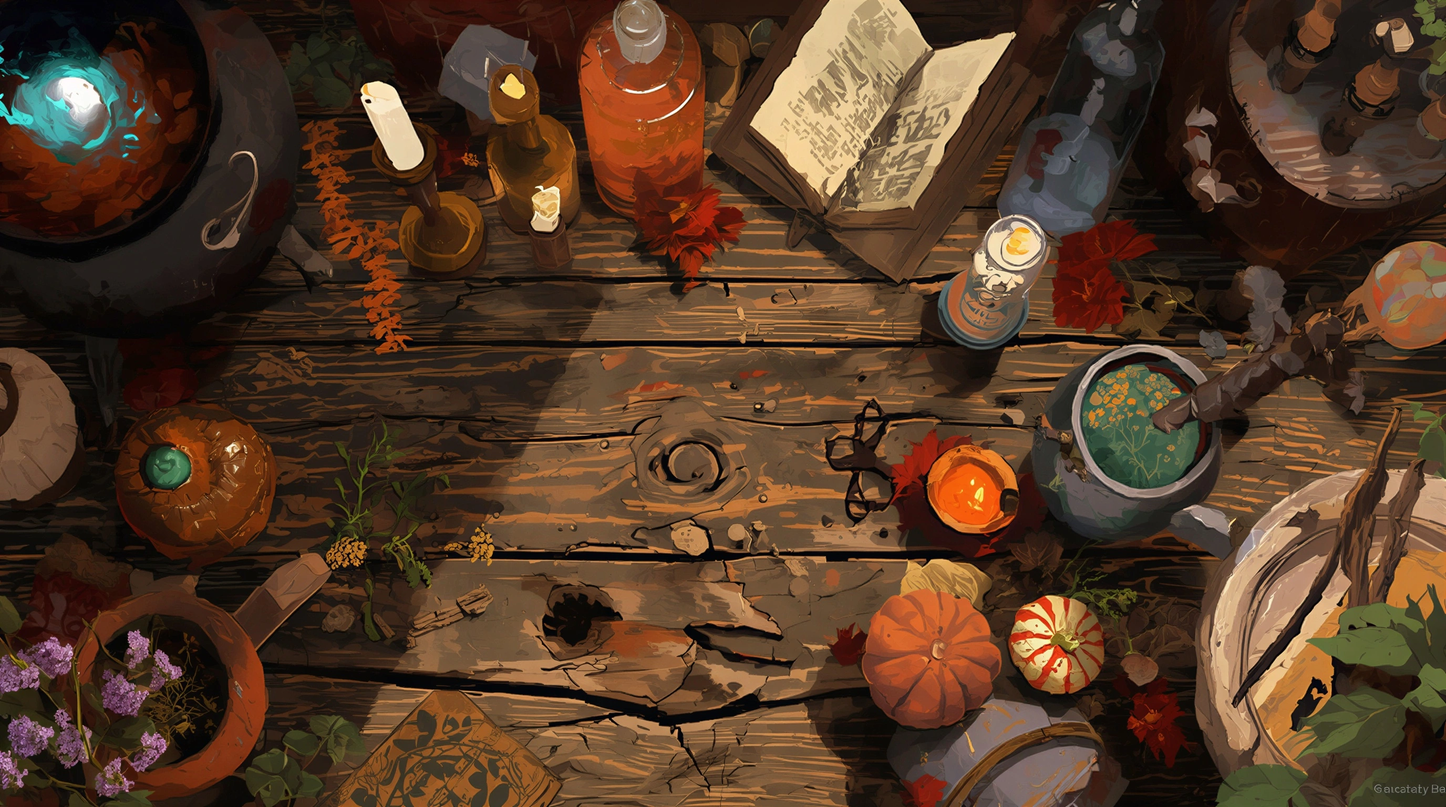
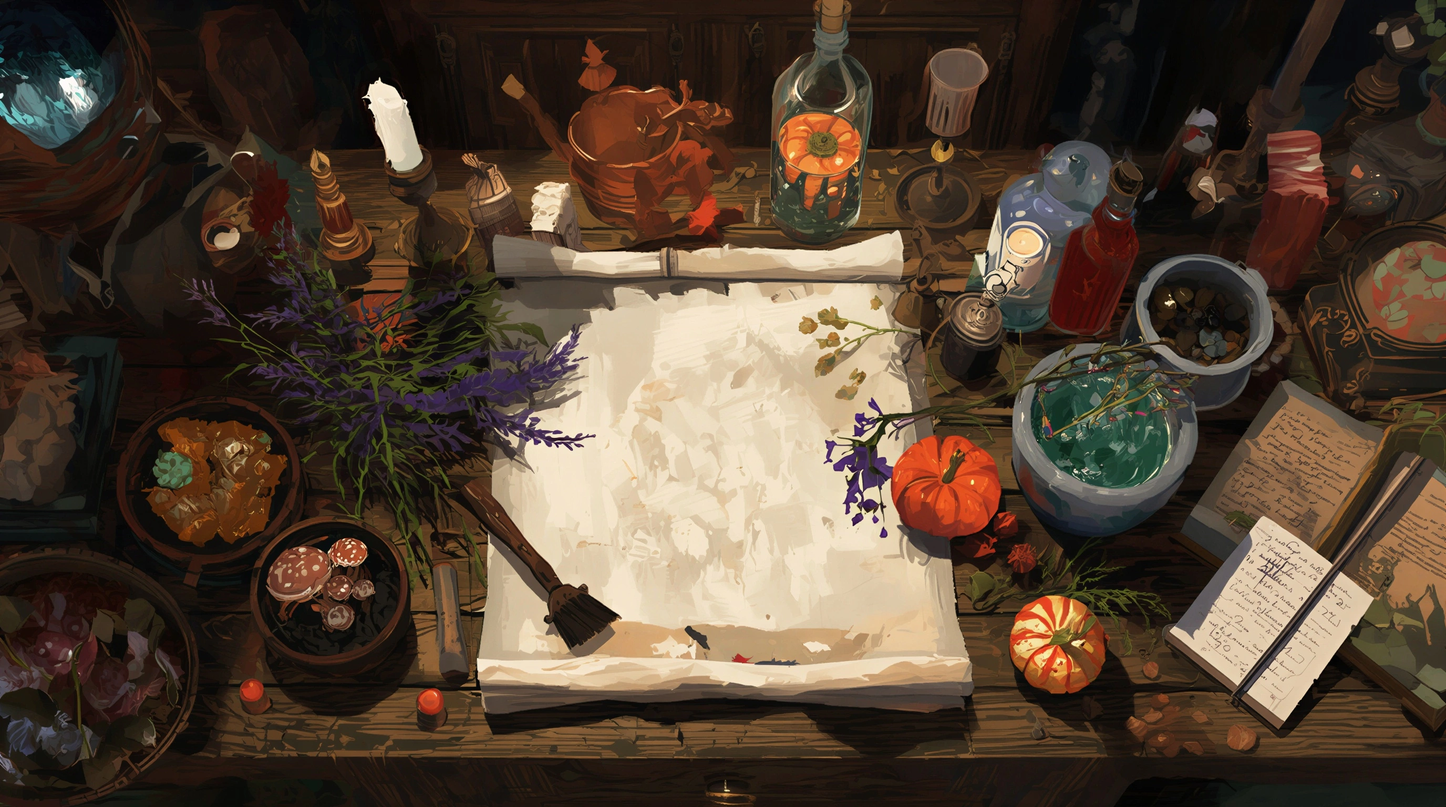
ui buttons the same style upd

diff --git a/styles/resume.css b/styles/resume.css
@@ -158,21 +158,20 @@ body {
 /* labeled counter */
 .resume-counter {
   font-family: var(--font-body);
-  font-size: 0.8rem;
+  font-size: 0.9rem;          /* match View card size */
   font-weight: 600;
   color: #7a4f1a;
   background: rgba(160, 100, 30, 0.12);
   border: 1px solid rgba(160, 100, 30, 0.3);
-  border-radius: 20px;
-  padding: 3px 11px;
+  border-radius: 6px;          /* rectangle — reads as a label, not a button */
+  padding: 0.7rem 1.3rem;          /* match View card padding/height */
   white-space: nowrap;
+  display: flex;
+  align-items: center;
 }
 
 .resume-counter::before {
-  content: 'Submissions ';
-  font-weight: 500;
-  opacity: 0.8;
-  letter-spacing: 0.02em;
+  content: 'Submissions\00a0';   /* non-breaking space so it doesn't collapse */
 }
 
 
@@ -212,30 +211,40 @@ body {
   align-items: center;
   gap: 0.35rem;
   font-family: var(--font-body);
-  font-size: 0.78rem;
-  font-weight: 600;
-  color: #7a4f1a;
-  background: rgba(160, 100, 30, 0.1);
-  border: 1px solid rgba(160, 100, 30, 0.3);
+  font-size: 0.9rem;
+  font-weight: 700;
+  color: #fdf0d5;
+  background: radial-gradient(circle at 35% 25%, #a9342a 0%, #7c1f17 60%, #5e150f 100%);
+  border: none;
   border-radius: 20px;
-  padding: 5px 12px;
+  padding: 0.7rem 1.3rem;
   cursor: pointer;
   white-space: nowrap;
-  transition: background 0.15s, border-color 0.15s;
+  box-shadow:
+    inset 0 1px 1px rgba(255, 220, 200, 0.3),
+    inset 0 -2px 3px rgba(40, 5, 0, 0.4),
+    0 1px 4px rgba(60, 10, 5, 0.3);
+  transition: transform 0.12s, box-shadow 0.15s;
 }
 
 .jobbar-view:hover {
-  background: rgba(160, 100, 30, 0.2);
-  border-color: rgba(160, 100, 30, 0.55);
+  transform: translateY(-1px);
+  box-shadow:
+    inset 0 1px 1px rgba(255, 220, 200, 0.3),
+    inset 0 -2px 3px rgba(40, 5, 0, 0.4),
+    0 3px 10px rgba(60, 10, 5, 0.4);
 }
 
 .resume-instruction {
-  font-family: var(--font-body);
-  font-size: 0.92rem;
+  font-family: var(--font-display);
+  font-size: 1rem;
   color: #6b4422;
-  margin: 0 0 0.85rem;
+  margin: 0 0 1.1rem;
   padding-top: 0.1rem;
   font-style: italic;
+  letter-spacing: 0.01em;
+  text-align: center;
+  opacity: 0.9;
 }
 
 
@@ -501,69 +510,80 @@ body {
 }
 
 .resume-screen .big-btn {
-  position: relative;
   font-family: var(--font-display);
-  background: radial-gradient(circle at 35% 25%, #a9342a 0%, #7c1f17 60%, #5e150f 100%);
-  color: #fdf0d5;
-  font-size: 0.92rem;
-  padding: 0.7rem 1.7rem 0.7rem 2.7rem;
+  /* hub primary — plain rounded rectangle, matches "Work on resumes" */
+  background: linear-gradient(135deg, #5a9149 0%, #2d5a27 100%);
+  color: #effaea;
+  font-size: 1.05rem;
+  padding: 0.8rem 1.9rem;
   border: none;
-  border-radius: 24px;
-  font-weight: 700;
+  border-radius: 6px;
+  font-weight: bold;
   cursor: pointer;
-  letter-spacing: 0.03em;
+  letter-spacing: 0.04em;
+  text-shadow: 0 1px 3px rgba(0,0,0,0.6);
   box-shadow:
-    inset 0 2px 2px rgba(255, 220, 200, 0.3),
-    inset 0 -3px 5px rgba(40, 5, 0, 0.45),
-    0 3px 12px rgba(60, 10, 5, 0.4);
-  transition: transform 0.15s, box-shadow 0.15s;
-}
-
-/* Embossed seal mark */
-.resume-screen .big-btn::before {
-  content: '✶';
-  position: absolute;
-  left: 0.95rem;
-  top: 50%;
-  transform: translateY(-50%);
-  font-size: 1rem;
-  color: rgba(255, 230, 210, 0.8);
-  text-shadow: 0 -1px 1px rgba(40, 5, 0, 0.6), 0 1px 1px rgba(255, 230, 210, 0.3);
+    0 4px 14px rgba(0,0,0,0.5),
+    0 0 22px rgba(120, 220, 110, 0.18),
+    inset 0 1px 0 rgba(255,255,255,0.18);
+  transition: transform 0.15s, box-shadow 0.15s, filter 0.15s;
 }
 
 .resume-screen .big-btn:hover {
   transform: translateY(-2px);
+  filter: brightness(1.06);
   box-shadow:
-    inset 0 2px 2px rgba(255, 220, 200, 0.3),
-    inset 0 -3px 5px rgba(40, 5, 0, 0.45),
-    0 6px 18px rgba(60, 10, 5, 0.5);
+    0 6px 22px rgba(0,0,0,0.6),
+    0 0 30px rgba(120, 220, 110, 0.3),
+    inset 0 1px 0 rgba(255,255,255,0.18);
 }
 
 .resume-screen .big-btn:active {
-  transform: translateY(1px) scale(0.97);
-  box-shadow:
-    inset 0 3px 6px rgba(40, 5, 0, 0.5),
-    0 1px 4px rgba(60, 10, 5, 0.35);
+  transform: translateY(0);
+}
+
+/* Disabled — daily resume limit reached. Greyed, no glow, not-allowed. */
+.resume-screen .big-btn:disabled {
+  background: linear-gradient(135deg, #8a7a6a 0%, #6a5c50 100%);
+  color: rgba(255, 245, 230, 0.6);
+  cursor: not-allowed;
+  box-shadow: inset 0 1px 2px rgba(0,0,0,0.2);
+  transform: none;
+  filter: none;
+  text-shadow: none;
+}
+
+.resume-screen .big-btn:disabled:hover {
+  transform: none;
+  filter: none;
+  box-shadow: inset 0 1px 2px rgba(0,0,0,0.2);
 }
 
 .resume-screen .small-btn {
-  font-family: var(--font-body);
-  background: rgba(255, 252, 240, 0.75);
-  color: #7a4f1a;
-  font-size: 0.84rem;
-  padding: 0.6rem 1.1rem;
-  border: 1.5px solid rgba(160, 100, 30, 0.35);
+  font-family: var(--font-display);
+  /* hub dark-brown secondary — matches "New day" shape + size */
+  background: linear-gradient(135deg, #5a4326 0%, #3d2c16 100%);
+  color: #e8d5a3;
+  font-size: 0.9rem;
+  padding: 0.7rem 1.3rem;
+  border: 1px solid rgba(232, 213, 163, 0.25);
   border-radius: 6px;
-  font-weight: 600;
+  font-weight: bold;
   cursor: pointer;
-  box-shadow: 0 1px 5px rgba(80, 50, 10, 0.1);
-  transition: background 0.15s, border-color 0.15s;
-  letter-spacing: 0.02em;
+  letter-spacing: 0.04em;
+  text-shadow: 0 1px 3px rgba(0,0,0,0.6);
+  box-shadow: 0 3px 10px rgba(0,0,0,0.45), inset 0 1px 0 rgba(255,255,255,0.1);
+  transition: filter 0.15s, transform 0.15s, border-color 0.15s;
 }
 
 .resume-screen .small-btn:hover {
-  background: rgba(255, 252, 240, 0.98);
-  border-color: rgba(160, 100, 30, 0.6);
+  filter: brightness(1.1);
+  transform: translateY(-2px);
+  border-color: rgba(232, 213, 163, 0.45);
+}
+
+.resume-screen .small-btn:active {
+  transform: translateY(0);
 }
 
 
@@ -923,6 +943,12 @@ body.modal-open { overflow: hidden; }
 
   .btn-group--media {
     gap: 0.5rem;
+  }
+
+  .jobbar-view,
+  .resume-counter {
+    font-size: 0.75rem;
+    padding: 4px 10px;
   }
 }
 

diff --git a/pages/resume.html b/pages/resume.html
@@ -62,7 +62,7 @@
       <!-- Active modifier tags (populated by updateModifierDisplay) -->
       <div id="activeModifiersResume" class="modifier-display"></div>
 
-      <p class="resume-instruction">Choose your resume elements:</p>
+      <p class="resume-instruction">Three choices stand between you and the post. Choose wisely.</p>
 
       <!-- PLANT -->
       <div class="resume-block">

diff --git a/styles/hub.css b/styles/hub.css
@@ -75,7 +75,7 @@ body {
    shown again on mobile where it reads naturally. */
 .board h3 {
   position: relative;
-  display: none;             /* DESKTOP: no redundant "Board" label */
+  display: inline-block; 
   font-family: var(--font-display);
   color: #eaf3e4;
   font-size: 1.7rem;
